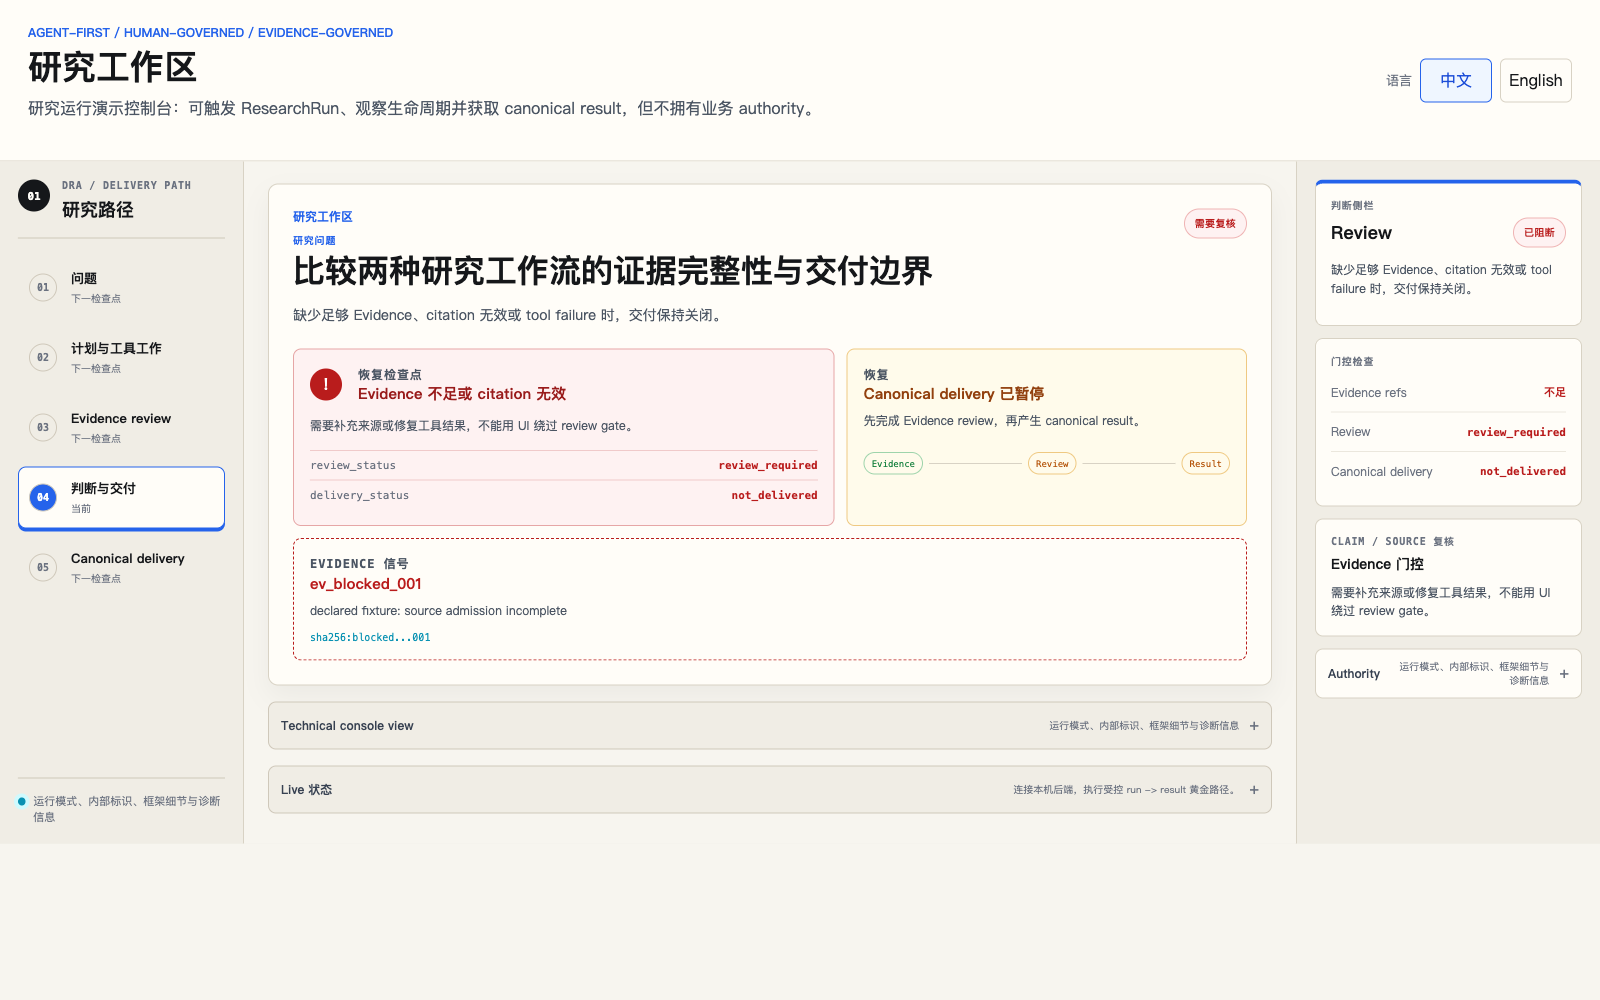
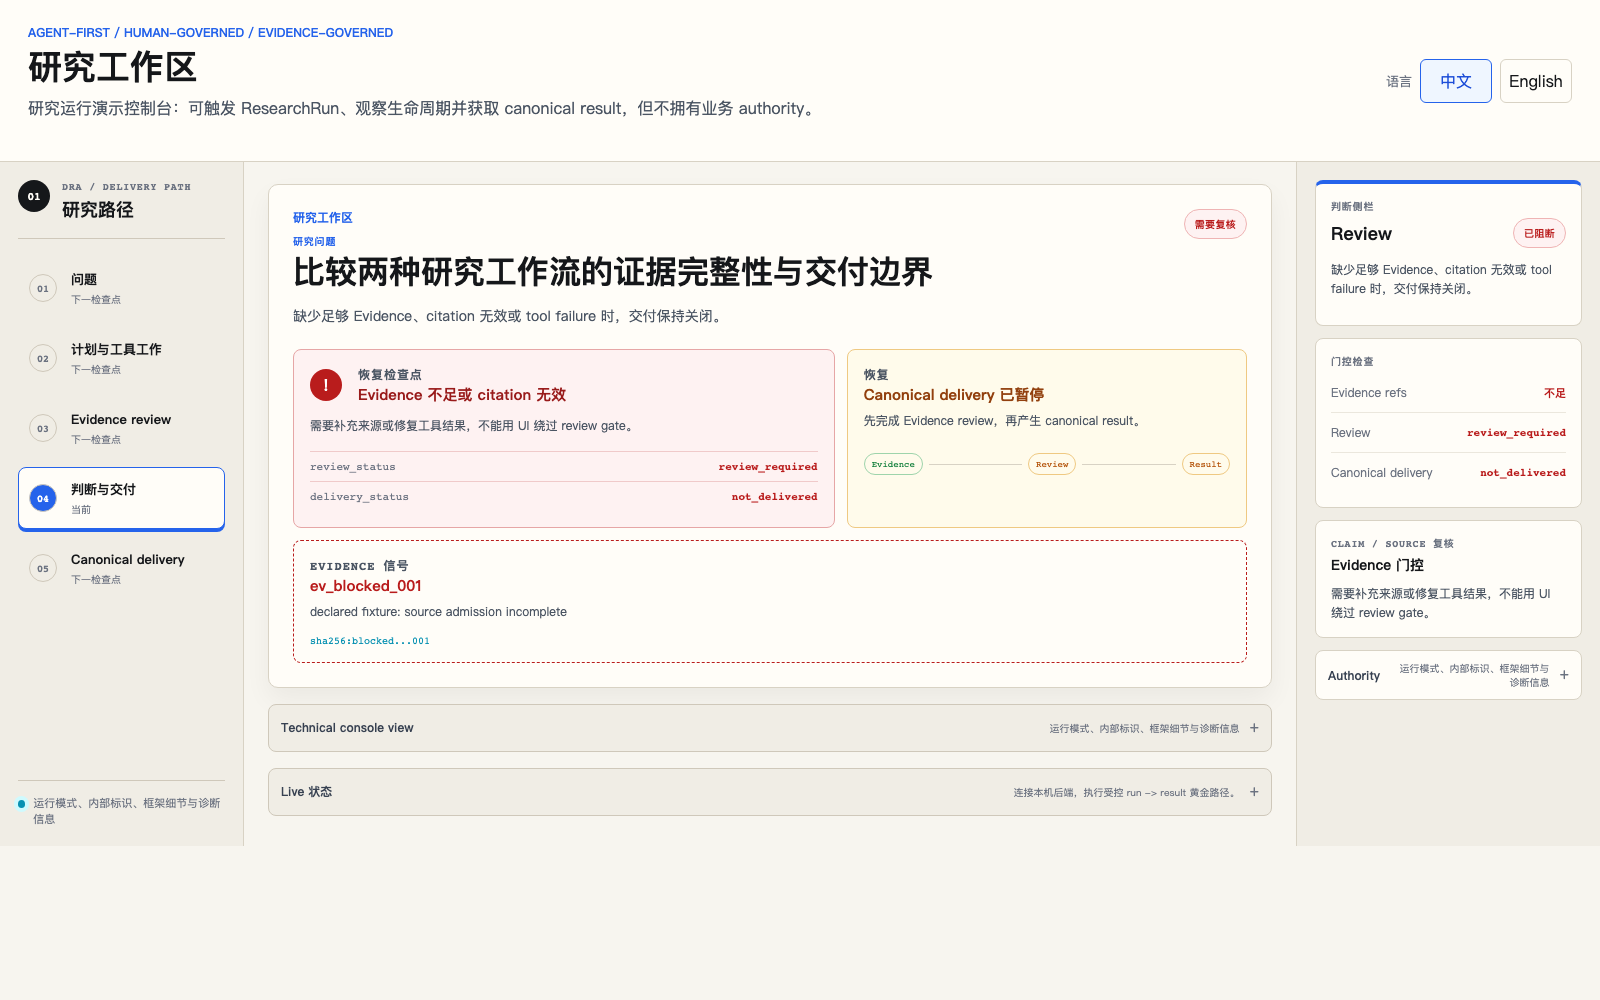
chore(frontend): modernize Node 22/24 support matrix (#141)
* chore(frontend): modernize Node 22/24 support matrix

删除 EOL Node 20 公共承诺，锁定 Node 22 与 24 的精确最低版本，并同步 frontend CI、依赖与文档 contract。

* chore(assets): freeze console showcase capture source

从 reviewed implementation commit 中移除 showcase assets，形成无资产的 exact capture source。

* chore(assets): recapture console showcase provenance

从 source-freeze commit 重新捕获三个 zh-CN showcase route，并同步 exact fingerprint、source identity 与 PNG hashes。

diff --git a/tests/unit/test_frontend_retirement.py b/tests/unit/test_frontend_retirement.py
@@ -1,9 +1,64 @@
+import json
 from pathlib import Path
 
 import yaml
 
 
 ROOT = Path(__file__).resolve().parents[2]
+
+
+def test_frontend_package_declares_maintained_lts_node_contract():
+    package = json.loads((ROOT / "frontend" / "package.json").read_text())
+
+    assert package["engines"] == {
+        "node": "^22.22.2 || ^24.15.0",
+    }
+    assert {
+        name: package["devDependencies"][name]
+        for name in (
+            "jsdom",
+            "@testing-library/jest-dom",
+            "@testing-library/dom",
+        )
+    } == {
+        "jsdom": "^30.0.1",
+        "@testing-library/jest-dom": "^7.0.0",
+        "@testing-library/dom": "^10.4.1",
+    }
+
+
+def test_frontend_lock_preserves_identity_and_testing_target_closure():
+    package = json.loads((ROOT / "frontend" / "package.json").read_text())
+    lock = json.loads((ROOT / "frontend" / "package-lock.json").read_text())
+    root_package = lock["packages"][""]
+
+    assert lock["name"] == package["name"] == "decision-research-agent-demo-console"
+    assert lock["version"] == package["version"] == "0.1.8"
+    assert root_package["name"] == package["name"]
+    assert root_package["version"] == package["version"]
+    assert root_package["engines"] == package["engines"]
+    assert {
+        name: root_package["devDependencies"][name]
+        for name in (
+            "jsdom",
+            "@testing-library/jest-dom",
+            "@testing-library/dom",
+        )
+    } == {
+        "jsdom": "^30.0.1",
+        "@testing-library/jest-dom": "^7.0.0",
+        "@testing-library/dom": "^10.4.1",
+    }
+
+    assert lock["packages"]["node_modules/jsdom"]["version"] == "30.0.1"
+    assert (
+        lock["packages"]["node_modules/@testing-library/jest-dom"]["version"]
+        == "7.0.0"
+    )
+    assert lock["packages"]["node_modules/@testing-library/dom"]["version"] == "10.4.1"
+    assert lock["packages"]["node_modules/@testing-library/jest-dom"][
+        "peerDependencies"
+    ] == {"@testing-library/dom": ">=10 <11"}
 
 
 def test_legacy_vue_frontend_assets_are_retired():
@@ -24,15 +79,28 @@ def test_ci_has_frontend_demo_console_job():
     workflow = yaml.safe_load((ROOT / ".github/workflows/ci.yml").read_text())
 
     frontend = workflow["jobs"]["frontend"]
-    assert frontend["name"] == "Frontend Demo Console"
+    assert frontend["name"] == "Frontend Demo Console (Node ${{ matrix.node-version }})"
+    assert frontend["strategy"] == {
+        "fail-fast": False,
+        "matrix": {"node-version": ["22.22.2", "24.15.0"]},
+    }
 
-    serialized = yaml.safe_dump(frontend, sort_keys=False)
-    assert "actions/setup-node" in serialized
-    assert "frontend/package-lock.json" in serialized
-    assert "npm ci" in serialized
-    assert "npm run test" in serialized
-    assert "npm run lint" in serialized
-    assert "npm run build" in serialized
+    setup_node = next(
+        step for step in frontend["steps"] if step["uses"].startswith("actions/setup-node@")
+    )
+    assert setup_node["with"]["node-version"] == "${{ matrix.node-version }}"
+
+    frontend_commands = [
+        (step["working-directory"], step["run"])
+        for step in frontend["steps"]
+        if "run" in step and step.get("working-directory") == "frontend"
+    ]
+    assert frontend_commands == [
+        ("frontend", "npm ci"),
+        ("frontend", "npm run test"),
+        ("frontend", "npm run lint"),
+        ("frontend", "npm run build"),
+    ]
 
 
 def test_dependabot_tracks_frontend_npm():

diff --git a/tests/unit/test_documentation_contracts.py b/tests/unit/test_documentation_contracts.py
@@ -987,18 +987,29 @@ def test_v0_1_5_documentation_contract_rejects_swapped_section_order(
         _assert_v0_1_5_release_documentation_contract()
 
 
-def test_demo_console_docs_track_frontend_node_requirements() -> None:
-    docs = "\n\n".join(
-        [
-            (PROJECT_ROOT / "docs" / "demo-console.md").read_text(encoding="utf-8"),
-            (PROJECT_ROOT / "docs" / "getting-started.md").read_text(encoding="utf-8"),
-        ]
+def test_frontend_node_support_is_exact_and_consistent_across_public_docs() -> None:
+    supported_line = (
+        "Node.js `22.22.2` or later within `22.x`, or `24.15.0` or later within `24.x`"
     )
+    docs = [
+        PROJECT_ROOT / "CONTRIBUTING.md",
+        PROJECT_ROOT / "docs" / "getting-started.md",
+        PROJECT_ROOT / "docs" / "demo-console.md",
+    ]
 
-    assert "20.19+" in docs
-    assert "22.13+" in docs
-    assert "24+" in docs
-    assert "22.12+" not in docs
+    for path in docs:
+        text = path.read_text(encoding="utf-8")
+        assert text.count(supported_line) == 1, path
+        for retired_or_broad_claim in (
+            "20.19+",
+            "22.12+",
+            "22.13+",
+            "24+",
+            ">=24",
+            "Node.js 26",
+            "Node.js `26",
+        ):
+            assert retired_or_broad_claim not in text, (path, retired_or_broad_claim)
 
 
 def test_readme_first_run_flow_is_canonical_and_copy_pasteable() -> None:

diff --git a/docs/getting-started.md b/docs/getting-started.md
@@ -9,7 +9,7 @@ React console in deterministic Static Demo mode.
 - Python 3.11
 - Git
 - Provider credentials for a real research run
-- Node.js `20.19+`, `22.13+`, or `24+` for the optional demo console
+- Node.js `22.22.2` or later within `22.x`, or `24.15.0` or later within `24.x`
 
 Keep credentials in `.env`. Do not pass API keys on the command line or commit
 the environment file.

diff --git a/CONTRIBUTING.md b/CONTRIBUTING.md
@@ -10,8 +10,7 @@ source .venv/bin/activate
 python -m pip install --no-deps -r constraints.txt
 ```
 
-Frontend changes also require Node.js `20.19+`, `22.12+`, or `24+`, matching
-the locked Vite toolchain:
+Frontend changes also require Node.js `22.22.2` or later within `22.x`, or `24.15.0` or later within `24.x`, matching the locked Vite toolchain:
 
 ```bash
 cd frontend

diff --git a/docs/demo-console.md b/docs/demo-console.md
@@ -52,7 +52,7 @@ deployment.
 
 ## Prerequisites
 
-- Node.js `20.19+`, `22.13+`, or `24+`
+- Node.js `22.22.2` or later within `22.x`, or `24.15.0` or later within `24.x`
 - npm
 - Python 3.11 and provider configuration for Live Backend only
 
